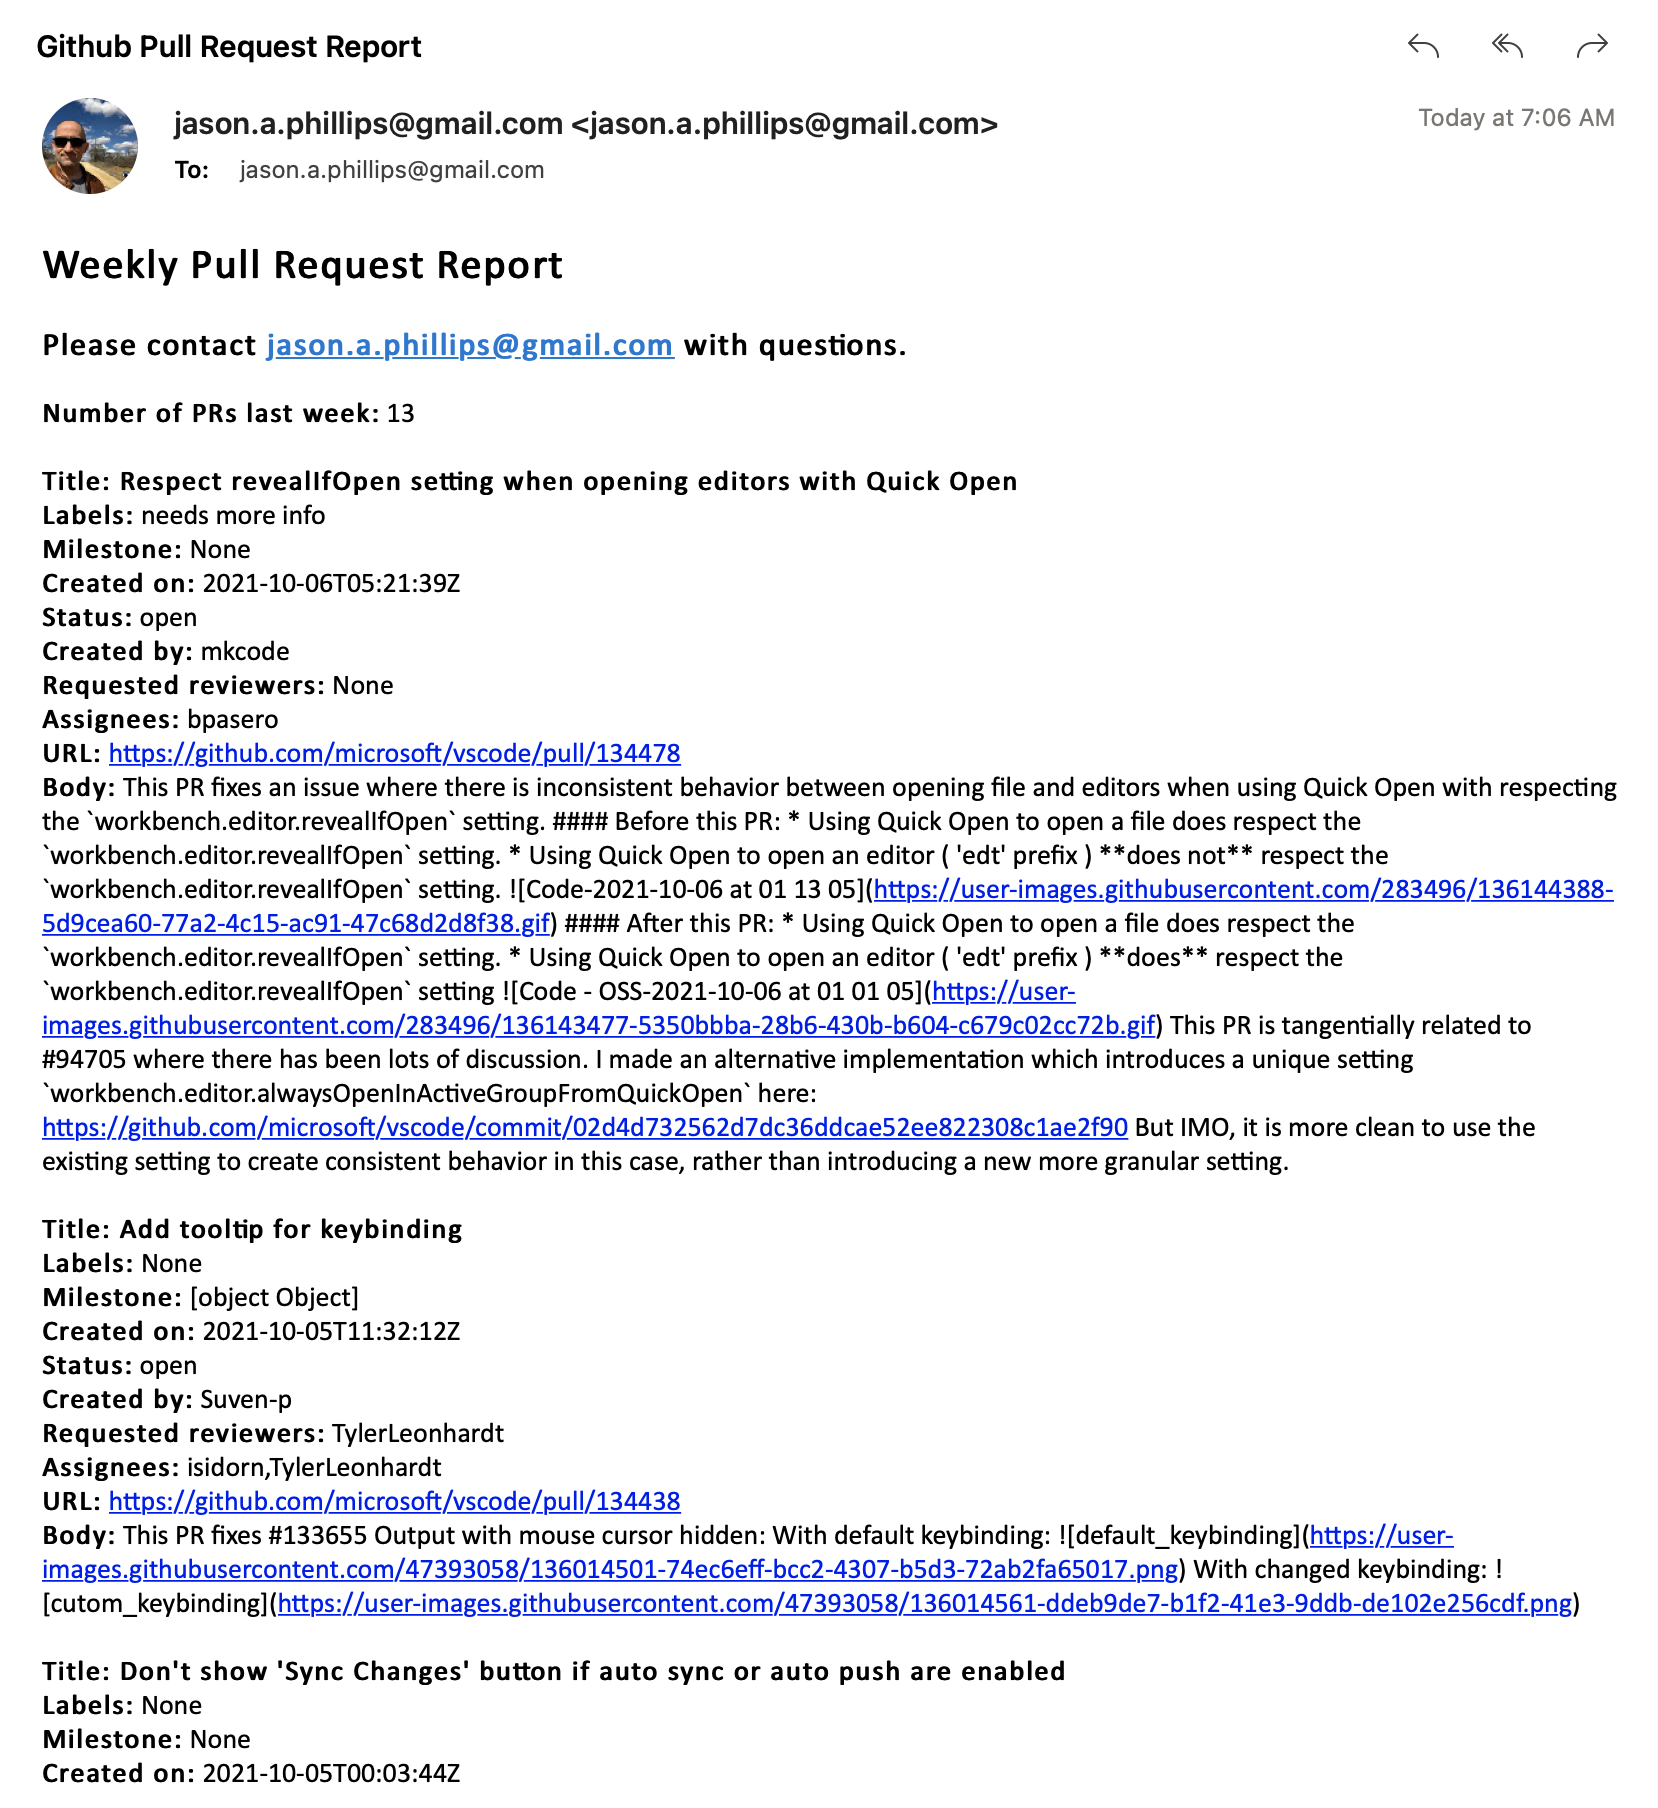
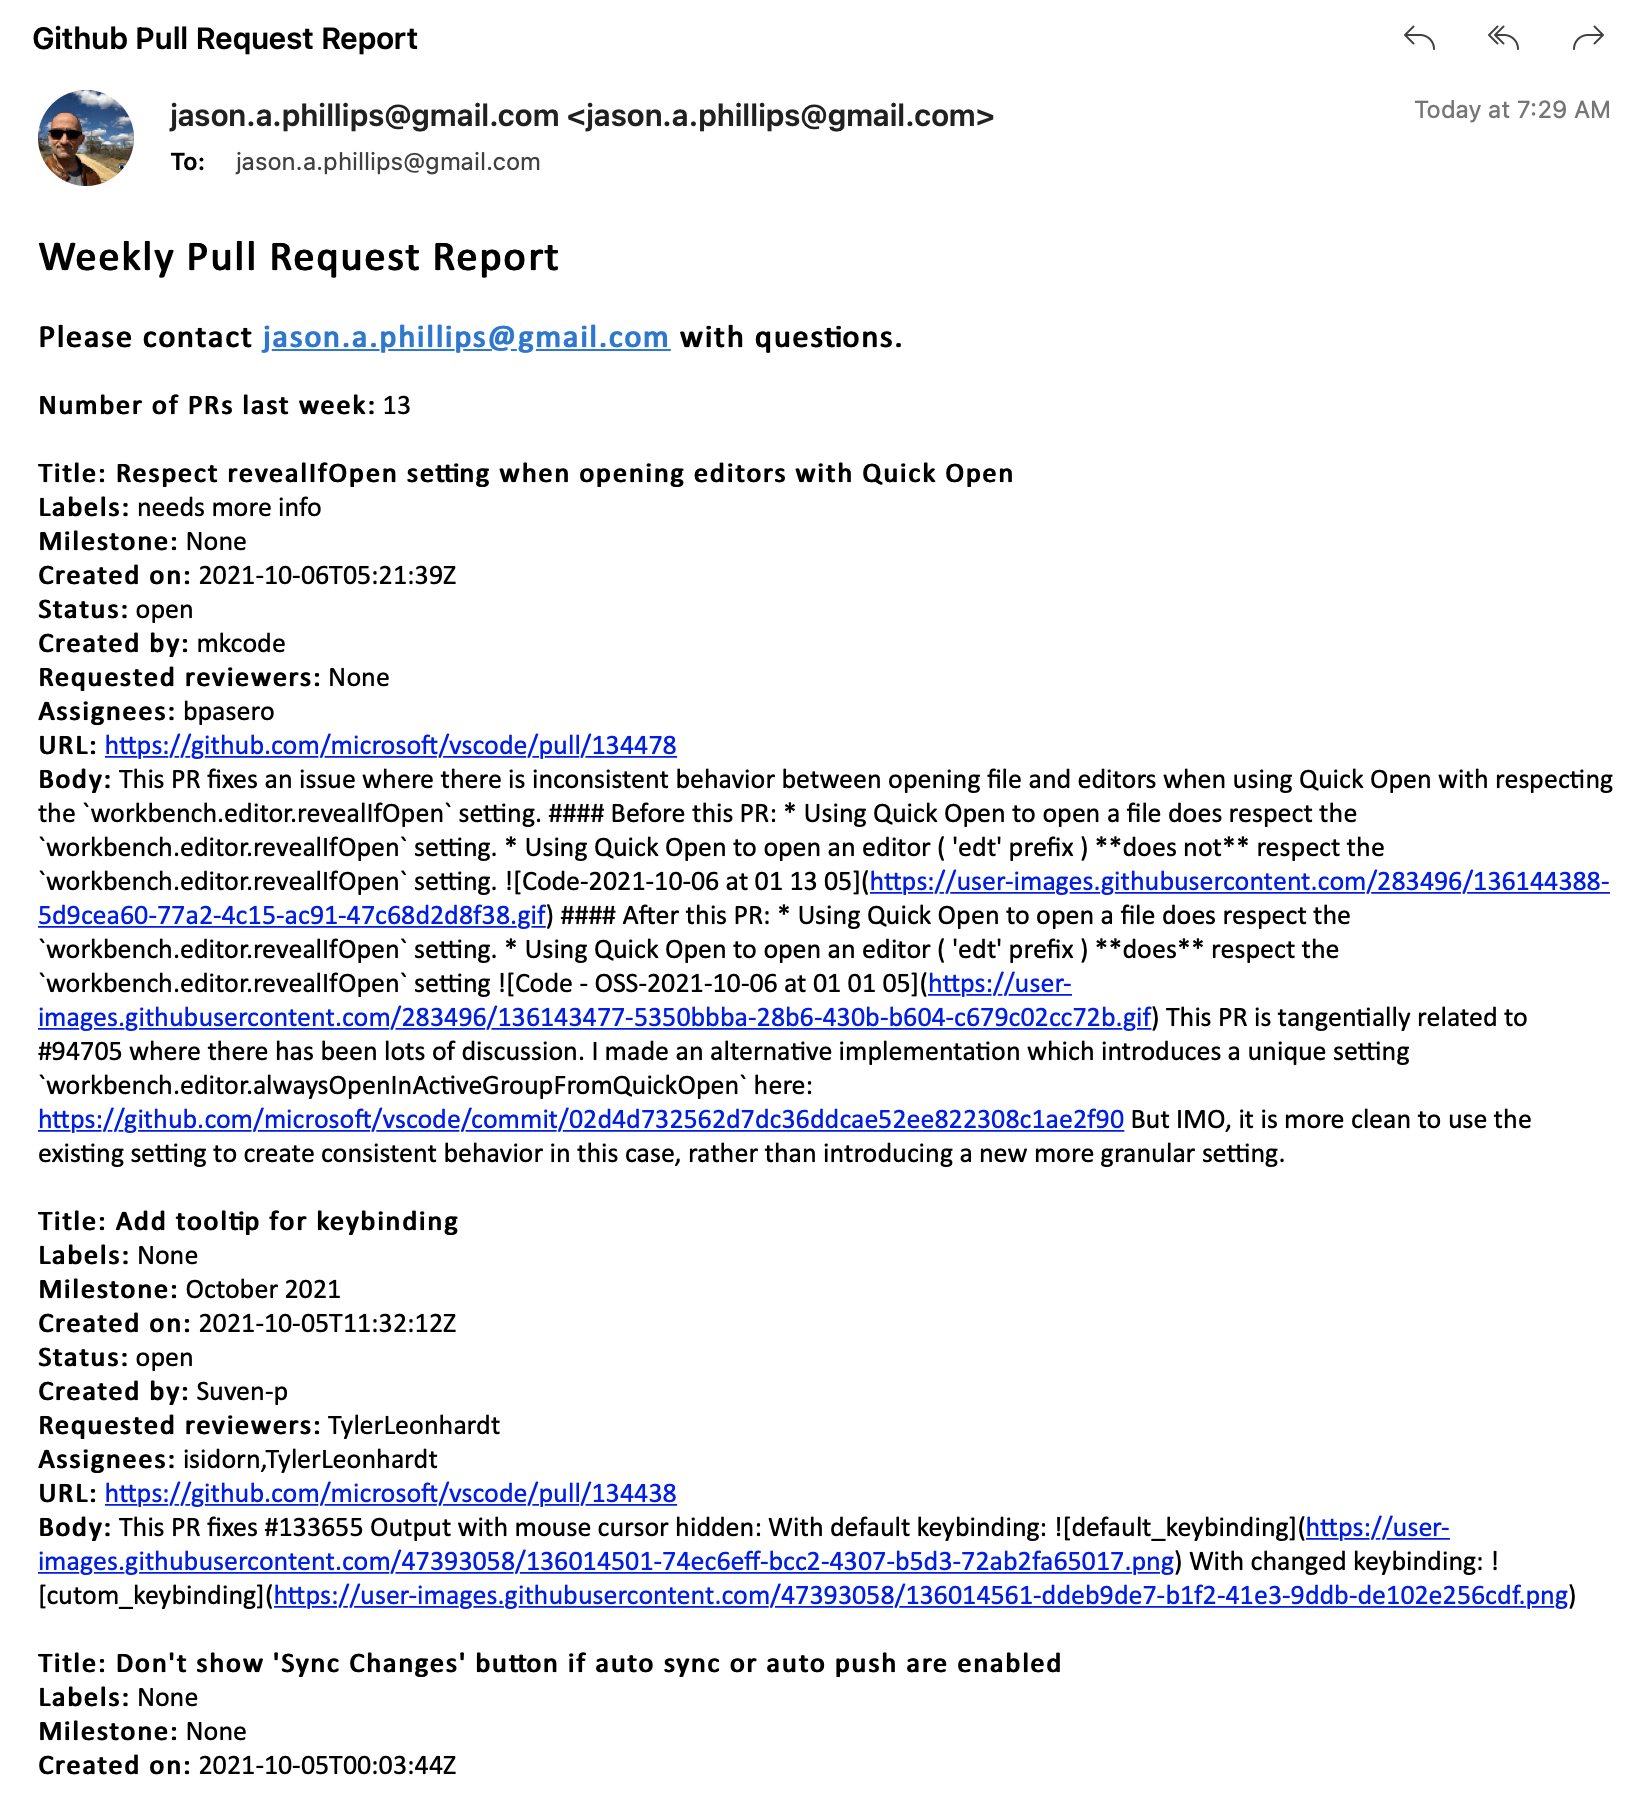
fixes bug in milestone object

diff --git a/program.js b/program.js
@@ -54,7 +54,7 @@ async function main() {
     
                 body += "<strong>Title: " + p.title + "</strong><br>";
                 body += "<strong>Labels:</strong> " + labels + "<br>";
-                body += "<strong>Milestone:</strong> " + (p.milestone ? p.milestone : "None") + "<br>";
+                body += "<strong>Milestone:</strong> " + (p.milestone && p.milestone.title ? p.milestone.title : "None") + "<br>";
                 body += "<strong>Created on:</strong> " + p.created_at + "<br>";
                 body += "<strong>Status:</strong> " + p.state + "<br>";
                 body += "<strong>Created by:</strong> " + p.user.login + "<br>";
